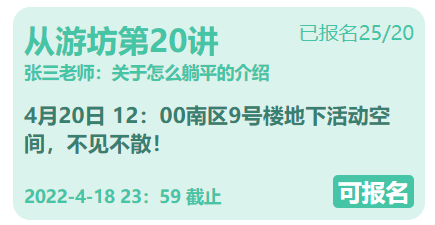
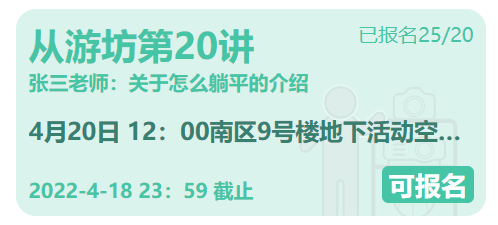
feat(frontend):改进卡片组件

diff --git a/frontend/pages/main/state/state.vue b/frontend/pages/main/state/state.vue
@@ -1,6 +1,8 @@
 <template>
 	<view class="container">
-		<weiyang-card :text="text" :color="color"></weiyang-card>
+		<view v-for="item in sample">
+			<weiyang-card :text="item.text" :color="item.color" :pic="item.pic"></weiyang-card>
+		</view>
 		<weiyang-card></weiyang-card>
 	</view>
 </template>
@@ -9,15 +11,34 @@
 	export default {
 		data() {
 			return {
-				text:{
-					title: '从游坊第20讲',
-					corner: '已报名25/20',
-					theme: '张三老师：关于怎么躺平的介绍',
-					content: '4月20日 12：00南区9号楼地下活动空间，不见不散！',
-					info: '2022-4-18 23：59 截止',
-					tag: '可报名'
-				},
-				color:['#DAF3ED','#45C5A6','#37806F']
+				sample:[
+					{
+						text:{
+							title: '从游坊第20讲',
+							corner: '已报名25/20',
+							theme: '张三老师：关于怎么躺平的介绍',
+							content: '4月20日 12：00南区9号楼地下活动空间，不见不散！',
+							info: '2022-4-18 23：59 截止',
+							tag: '可报名'
+						},
+						pic:'reserve.svg',
+						color:['#DAF3ED','#45C5A6','#37806F']
+					},
+					{
+						text:{
+							title: '从游坊第20讲',
+							corner: '已报名25/20',
+							theme: '张三老师：关于怎么躺平的介绍',
+							content: '4月20日 12：00南区9号楼地下活动空间，不见不散！',
+							info: '2022-4-18 23：59 截止',
+							tag: '可报名'
+						},
+						pic:'salon.svg',
+						color:['#CEE0EF','#112C9A','#202969']
+					}
+				]
+				
+				
 			}
 		},
 		methods: {

diff --git a/frontend/components/weiyang-card/weiyang-card.vue b/frontend/components/weiyang-card/weiyang-card.vue
@@ -10,6 +10,7 @@
 			<view class="info">{{text.info}}</view>
 			<view class="tag" :style="{'background-color':color[1]}">{{text.tag}}</view>
 		</view>
+		<image class="card-background" mode="widthFix" :src="'../../static/components/'+pic"></image>
 	</view>
 </template>
 
@@ -34,6 +35,10 @@
 				type: Array,
 				default:['#F3F3F3','#CCCCCC','#999999']
 			},
+			pic:{ // 图片名称
+				type:String,
+				default:'answer.svg'
+			},
 			url: { // 跳转绝对路径,可带参数
 				type: String,
 				required:true
@@ -54,6 +59,10 @@
 	.weiyang-card {
 		display: flex;
 		flex-direction: column;
+		
+		position: relative;
+		z-index: -2;
+		overflow: hidden;
 
 		width: 650rpx;
 		padding: 20rpx;
@@ -85,6 +94,9 @@
 
 	.content {
 		padding: 30rpx 0;
+		overflow: hidden;
+		white-space: nowrap;
+		text-overflow:ellipsis;
 		font: bold 36rpx sans-serif;
 	}
 
@@ -94,5 +106,16 @@
 
 		color: #FFFFFF;
 		font: 900 40rpx sans-serif
+	}
+	
+	/* 背景图片 */
+	.card-background{
+		opacity: 0.3;
+		width: 300rpx;
+		
+		position: absolute;
+		right: 0;
+		bottom: -50rpx;
+		z-index: -1;
 	}
 </style>

diff --git a/frontend/components/weiyang-background/weiyang-background.vue b/frontend/components/weiyang-background/weiyang-background.vue
@@ -1,6 +1,6 @@
 <template>
 	<view>
-		<image class="weiyang-background" mode="widthFix" src="../../static/weiyang.svg"></image>
+		<image class="weiyang-background" mode="widthFix" src="@/static/weiyang.svg"></image>
 	</view>
 </template>
 

diff --git a/docs/前端/前端组件一览.md b/docs/前端/前端组件一览.md
@@ -28,9 +28,10 @@
 | ----- | -------- | ---------------------------------------------- |
 | text  | Object   | 卡片上的文本内容。接受六个子属性，详见使用示例 |
 | color | Array    | 卡边上的色调。接受三个颜色，详见使用示例       |
+| pic   | String   | 卡片背景图片，暂不支持颜色修改                 |
 | url   | String   | 点击卡片跳转路径。可带参数                     |
 
-
+未来可能将颜色样式全部内置进卡片内部
 
 ### 使用示例
 
@@ -39,7 +40,7 @@
 ```html
 <template>
 	<view>
-		<weiyang-card :text="text" :color="color" :url="url"></weiyang-card>
+		<weiyang-card :text="text" :color="color" :pic="pic" :url="url"></weiyang-card>
 	</view>
 </template>
 
@@ -58,6 +59,8 @@
                 }, 
                 /* 对应于由浅到深的三个颜色 */
                 color:['#DAF3ED','#45C5A6','#37806F'],
+                /* 现有图片名详见/static/components/下 */
+                 pic:'reserve.svg', 
                 /* 请注意带上参数 */
                 url:'pages/XXX/XXX?id=12345'
             }
